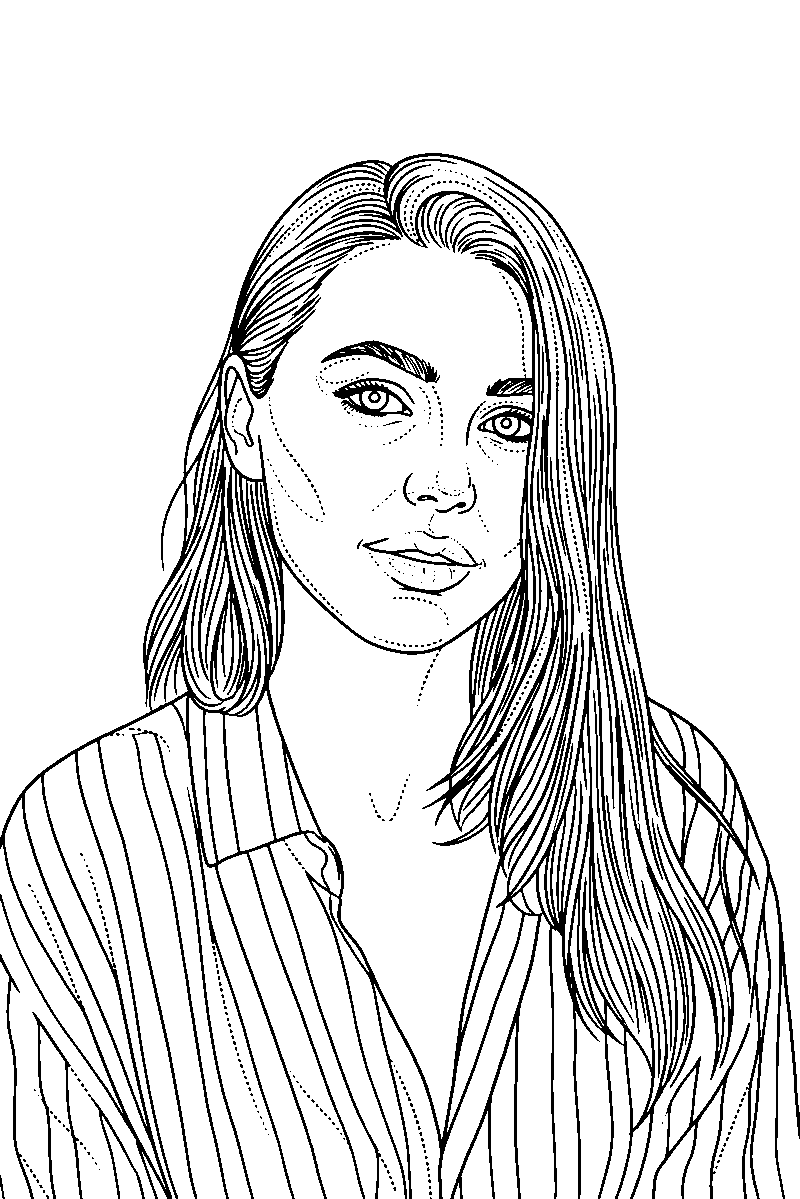
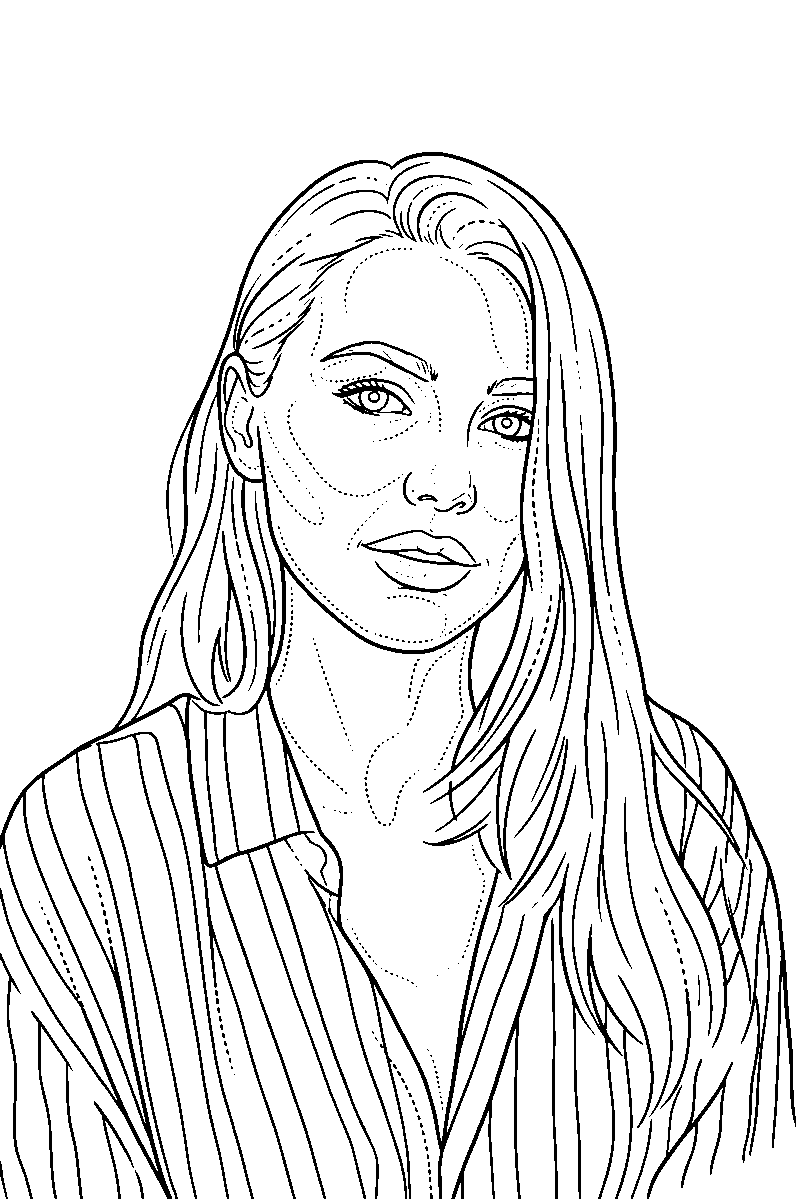
auto-commit for 05365944-a2e2-4d23-8148-eabb0e8d2a3f

diff --git a/backend/server.py b/backend/server.py
@@ -2156,7 +2156,11 @@ FIDELITY — strict (applies to all detail levels):
 - Do NOT complete, correct, or clean up the subject — keep it exactly as shown
 - NO solid black fills ANYWHERE. This applies even to features that appear dark in the source image: eyebrows, pupils, irises, nostrils, eye liner, hair shadows, and any deep shadow area MUST be drawn as OUTLINES ONLY, never filled with black or any solid color
 - NO crosshatching or sketch-style shading
-- Use consistent, thin-to-medium line weight throughout. Avoid thick or bold outlines, especially around small features like eyes, lips, and nostrils, so lines read clearly at tattoo-stencil scale without bleeding or blurring when transferred to skin
+- LINE WEIGHT (applies to all detail levels):
+  • Main silhouette / subject outline: consistent, thin-to-medium weight — never thick or bold
+  • Interior HAIR texture and flow lines: THE THINNEST possible line weight, noticeably finer than the hair silhouette itself — these lines are packed together in a small area and will merge/blur on skin if drawn any thicker
+  • ALL EYE details (eyelid edges, iris contour, pupil outline, eyelashes): THE THINNEST possible line weight — the eye is a very small region and thick lines will bleed together when transferred to skin
+  • Generally: small, dense, or tightly packed detail areas (hair, eyes, lips, nostrils) must use the thinnest lines in the stencil; only large-scale silhouette outlines may be slightly heavier
 
 Style: Professional tattoo stencil suitable for thermal transfer paper"""
 
@@ -2342,7 +2346,11 @@ FIDELITY — strict (applies to all detail levels):
 - Do NOT complete, correct, or clean up the subject — keep it exactly as shown
 - NO solid black fills ANYWHERE. This applies even to features that appear dark in the source image: eyebrows, pupils, irises, nostrils, eye liner, hair shadows, and any deep shadow area MUST be drawn as OUTLINES ONLY, never filled with black or any solid color
 - NO crosshatching or sketch-style shading
-- Use consistent, thin-to-medium line weight throughout. Avoid thick or bold outlines, especially around small features like eyes, lips, and nostrils, so lines read clearly at tattoo-stencil scale without bleeding or blurring when transferred to skin
+- LINE WEIGHT (applies to all detail levels):
+  • Main silhouette / subject outline: consistent, thin-to-medium weight — never thick or bold
+  • Interior HAIR texture and flow lines: THE THINNEST possible line weight, noticeably finer than the hair silhouette itself — these lines are packed together in a small area and will merge/blur on skin if drawn any thicker
+  • ALL EYE details (eyelid edges, iris contour, pupil outline, eyelashes): THE THINNEST possible line weight — the eye is a very small region and thick lines will bleed together when transferred to skin
+  • Generally: small, dense, or tightly packed detail areas (hair, eyes, lips, nostrils) must use the thinnest lines in the stencil; only large-scale silhouette outlines may be slightly heavier
 
 Style: Professional tattoo stencil suitable for thermal transfer paper"""
 
